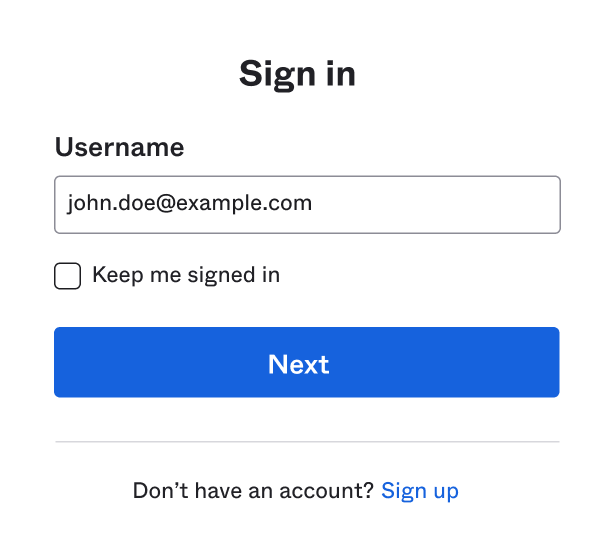
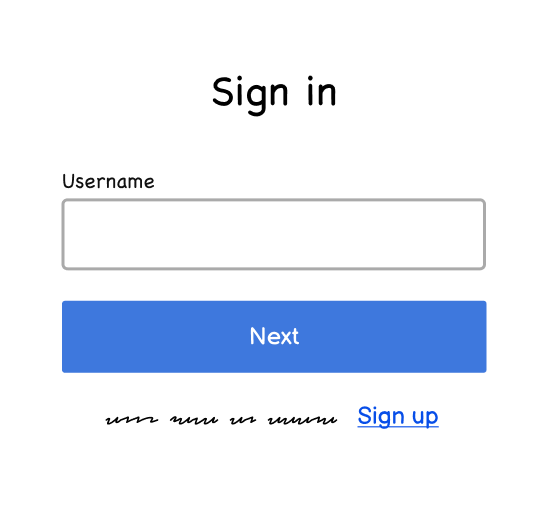
Updated based on Dans feedback

diff --git a/packages/@okta/vuepress-site/docs/guides/pwd-optional-sign-in-email/main/nodeexpress/integrationsteps.md b/packages/@okta/vuepress-site/docs/guides/pwd-optional-sign-in-email/main/nodeexpress/integrationsteps.md
@@ -2,15 +2,15 @@
 
 Create a sign-in page that captures the user's username.
 
-<div class="common-image-format bordered-image">
+<div class="half border">
 
-![Screenshot showing a sign-in page with the username field.](/img/pwd-optional/pwd-optional-sign-in-page.png)
+![Screenshot showing a sign-in page with a username field and a Next button.](/img/pwd-optional/pwd-optional-sign-in-page.png)
 
 </div>
 
 ### 2: Submit username
 
-When the user initiates the sign-in, pass the username to `OktaAuth.idx.authenticate()`.
+When the user submits their username, call `OktaAuth.idx.authenticate()` passing in the username.
 
 ```javascript
   const { username } = req.body;
@@ -37,9 +37,9 @@ When the user initiates the sign-in, pass the username to `OktaAuth.idx.authenti
 }
 ```
 
-The email authenticator supports OTP and magic links, and you can integrate both methods into your application. Learn more about integrating the email authenticator challenge by visiting the [Okta email integration guide](/docs/guides/authenticators-okta-email/nodeexpress/main/#integrate-email-challenge-with-magic-links).
+The email authenticator supports OTP and magic links, and you can integrate both methods into your application. For more information about integrating the email authenticator challenge, see the [Okta email integration guide](/docs/guides/authenticators-okta-email/nodeexpress/main/#integrate-email-challenge-with-magic-links).
 
-### 4. Complete sign-up
+### 4. Complete sign-in flow
 
 When the user completes the email authenticator verification, `OktaAuth.idx` should return  `IdxTransaction.status` of `SUCCESS` along with access and ID tokens, which indicates a successful sign-in.
 

diff --git a/packages/@okta/vuepress-site/docs/guides/pwd-optional-sign-in-email/main/index.md b/packages/@okta/vuepress-site/docs/guides/pwd-optional-sign-in-email/main/index.md
@@ -6,12 +6,12 @@ title: Sign in with email only
 
 <ApiLifecycle access="ie" /><br>
 
-Learn how to use the Embedded SDK to integrate password-optional sign-in in your app.
+Enable users to sign in with email only in an application based on an embedded SDK.
 
 **Learning outcomes**
 
-* Configure your Okta org to allow your users the option to sign in without a password
-* Enable your app to support password-optional sign-ins
+* Set up password-optional sign-in in your Okta org
+* Integrate password-optional sign-ins in your app using the Embedded SDK.
 
 **What you need**
 
@@ -28,7 +28,7 @@ Learn how to use the Embedded SDK to integrate password-optional sign-in in your
 
 ## Update configurations
 
-Before you can start integrating password-optional sign-ins in your app, <StackSnippet snippet="setupoktaorg" inline/>. Additionally, for this use case, you must have created a user with an email authenticator as described in the <StackSnippet snippet="signupfornewaccount" inline/> guide.
+Before you can start integrating password-optional sign-ins in your app, <StackSnippet snippet="setupoktaorg" inline/>. Additionally, in order test the sign-in integration, you must use a user with an enrolled email authenticator.
 
 ## Integrate
 

diff --git a/packages/@okta/vuepress-site/docs/guides/pwd-optional-sign-in-email/main/nodeexpress/whatyouneed.md b/packages/@okta/vuepress-site/docs/guides/pwd-optional-sign-in-email/main/nodeexpress/whatyouneed.md
@@ -1,3 +1,2 @@
-* [An Okta org set up for a password-optional use case](/docs/guides/oie-embedded-common-org-setup/nodejs/main/#set-up-your-okta-org-for-a-password-optional-use-case)
-* [The Embedded SDK added to your app](docs/guides/oie-embedded-common-download-setup-app/nodejs/main/)
+* [Download and set up the SDK](docs/guides/oie-embedded-common-download-setup-app/nodejs/main/)
 </br>

diff --git a/packages/@okta/vuepress-site/docs/guides/pwd-optional-sign-in-email/main/nodeexpress/integrationsummary.md b/packages/@okta/vuepress-site/docs/guides/pwd-optional-sign-in-email/main/nodeexpress/integrationsummary.md
@@ -1,4 +1,4 @@
-<div class="common-image-format">
+<div class="full">
 
 ![Sequence diagram illustrating the password-optional sign-in use case.](/img/pwd-optional/pwd-optional-sign-in-summary.png)
 
